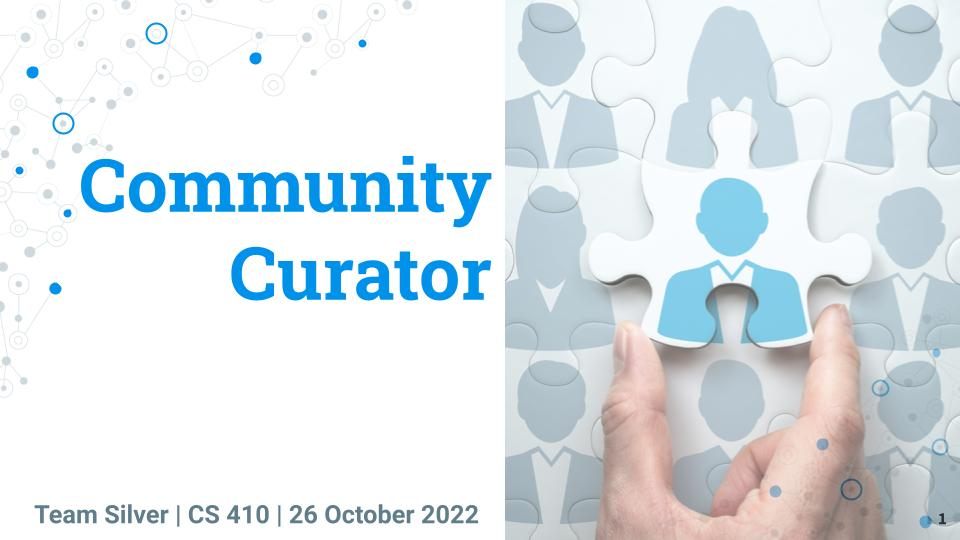
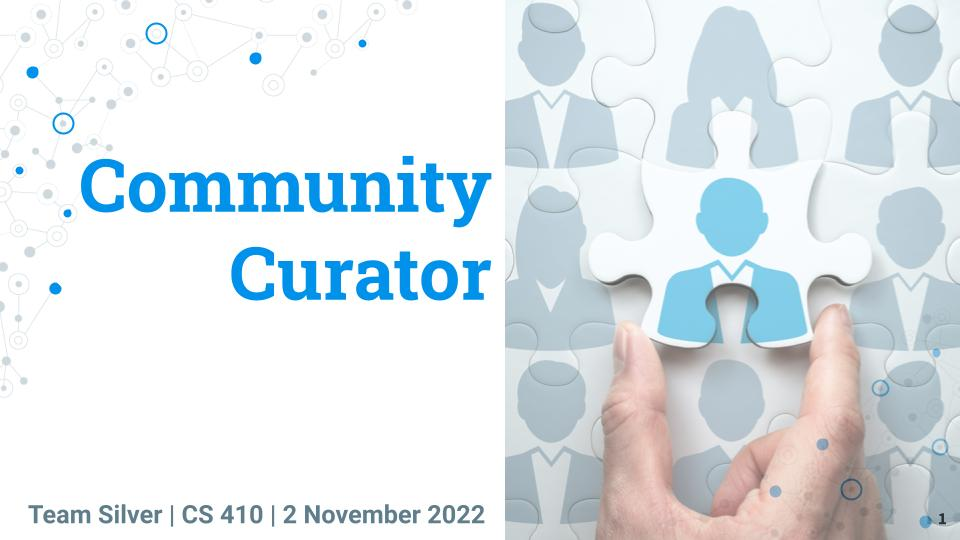
Mariia updated title slide and deliveravles

Changed region(s): [[0.0312, 0.9185, 0.5, 0.9778]]

diff --git a/deliverables.html b/deliverables.html
@@ -126,6 +126,27 @@
       </p>
     <div>
 
+    <div
+      class="w3-container w3-padding-32"
+      style="max-width: 100%"
+      id="MFCD"
+    >
+      <h3 class="w3-border-bottom w3-border-light-grey w3-padding-16">
+        Major functional component diagram
+      </h3>
+      <img src="MFCD.png" alt="MFCD" style="float:left; padding: 0px 100px 0px 75px; width: 700px; height: auto;" />
+    <div>
+
+     <div
+      class="w3-container w3-padding-32"
+      style="max-width: 100%"
+      id="Algorithms"
+    >
+      <h3 class="w3-border-bottom w3-border-light-grey w3-padding-16">
+        Algorithms
+      </h3>
+      <img src="Algorithms.png" alt="Algorithms" style="float:left; padding: 0px 100px 0px 75px; width: 700px; height: auto;" />
+    <div>
 
     </div>
 
